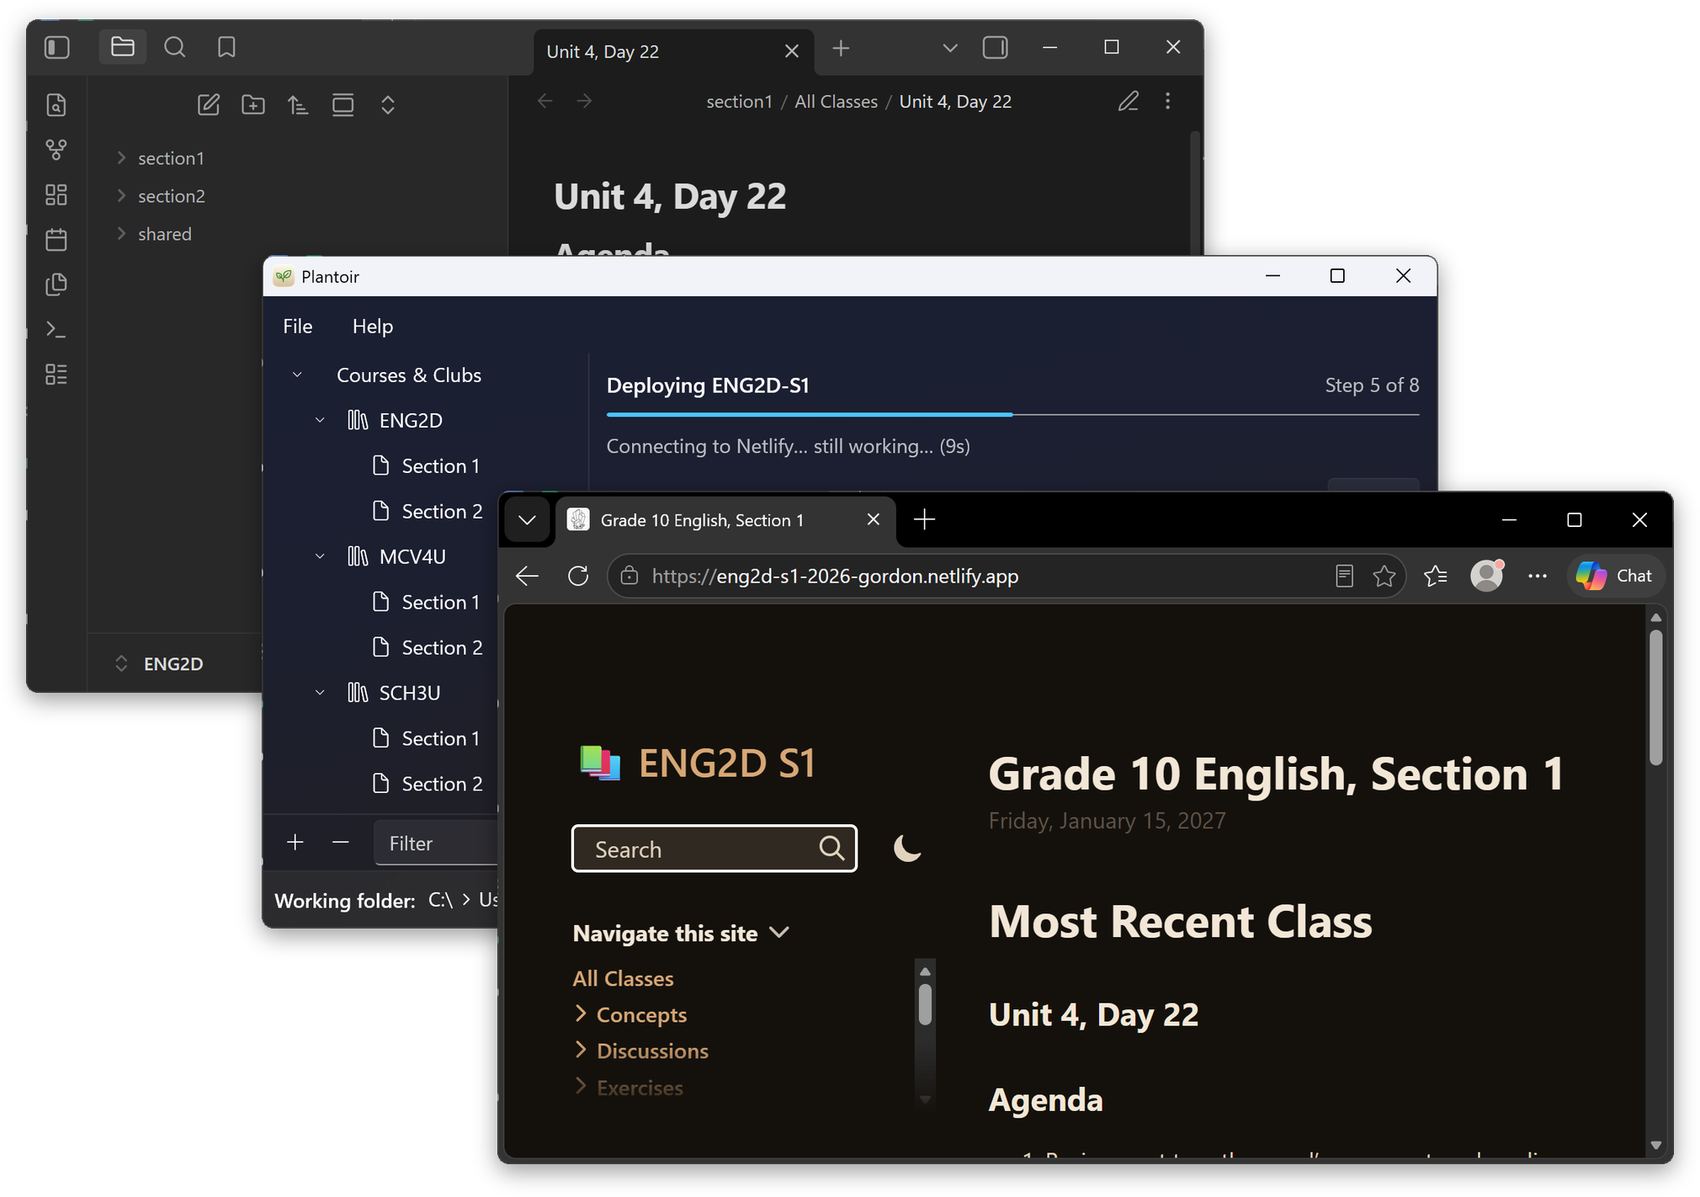
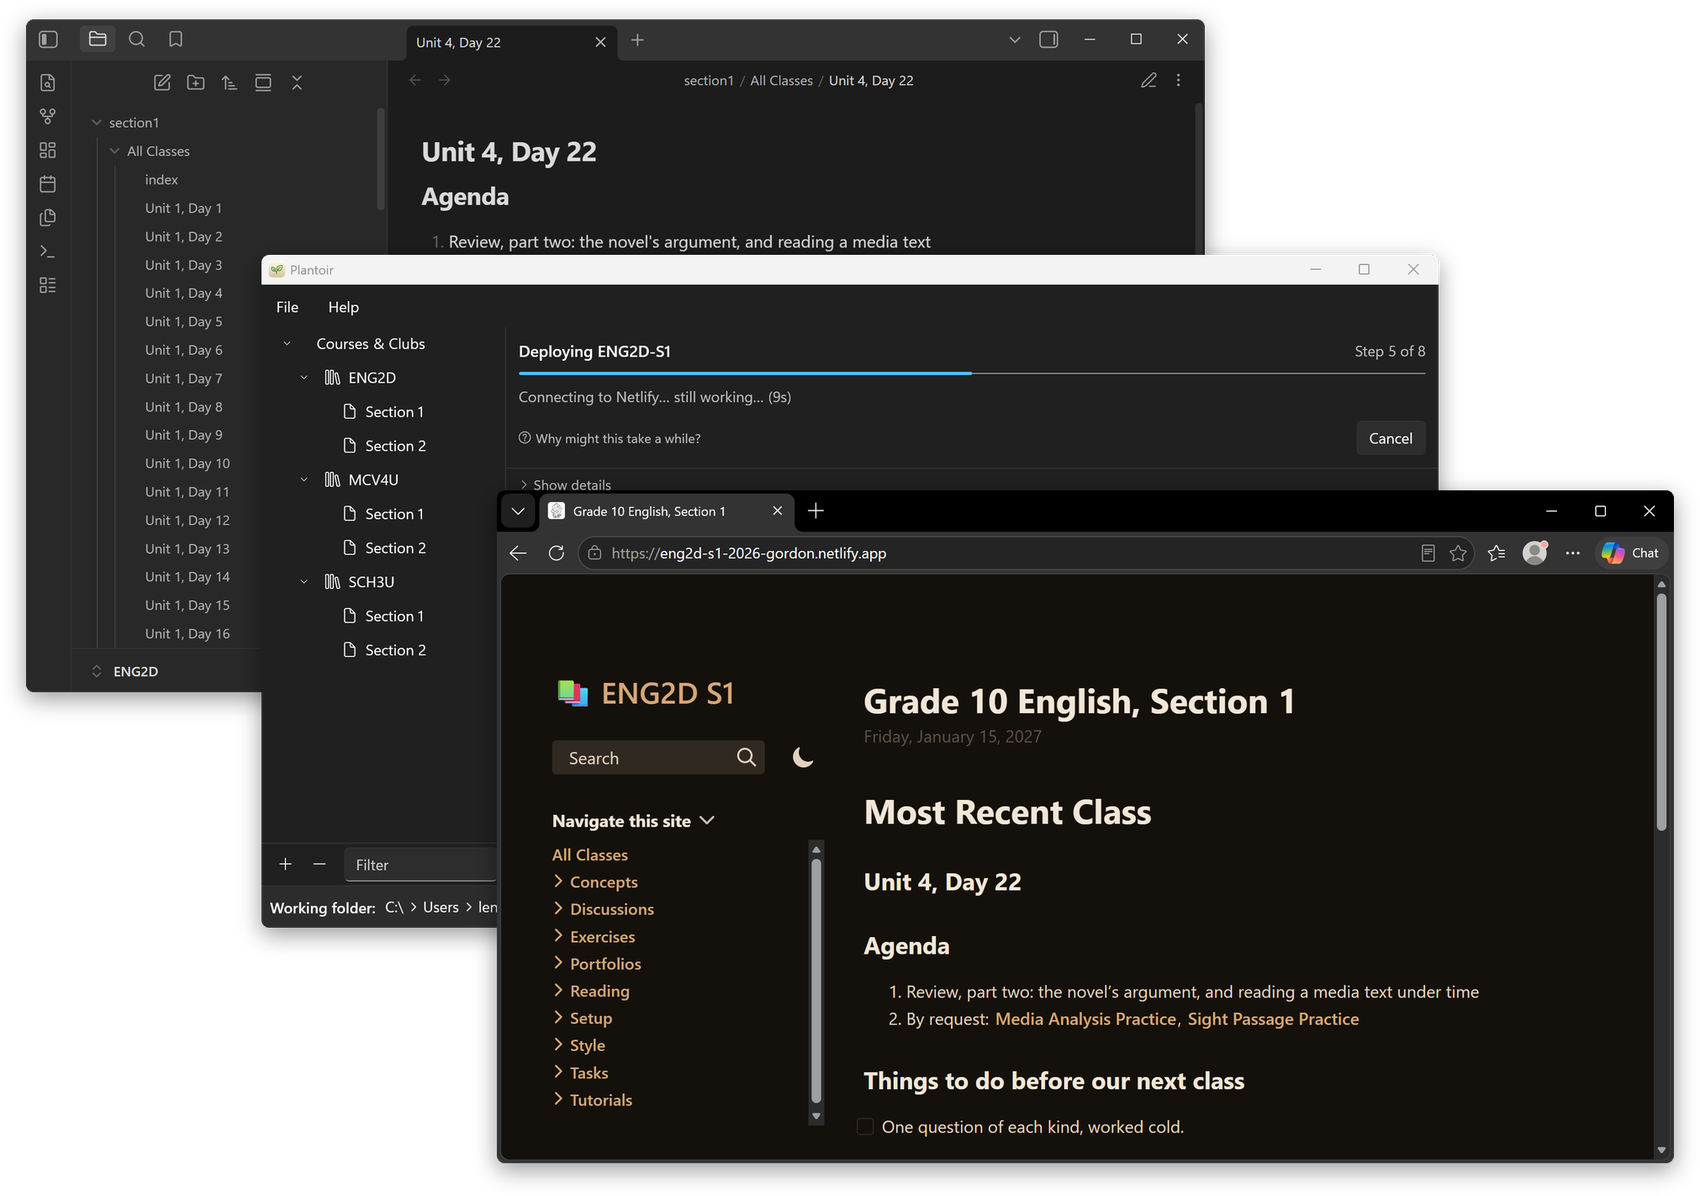
Fix Windows hero image: stray border pixels, tiny windows, and an empty Obsidian sidebar
Three separate bugs, found by comparing the Windows hero composite next to
the mac's side by side as asked, then re-shot:

1. Every card kept a 1 DIP hairline of Windows 11's own window border baked
   into the bitmap, because DWMWA_EXTENDED_FRAME_BOUNDS excludes the
   invisible resize border but not that accent border. Measured at exactly
   2 real pixels on this machine's 2x display, identical across Obsidian,
   Plantoir and Edge, in both themes. Cropped off before masking the corners.

2. card_geometry()'s 1680x960 cap was a REAL-PIXEL number tuned on a
   1920x1080-at-150% machine, where it read as almost the whole screen. The
   same number on a 200%-scaled display is only 840x480 DIPs -- a physically
   small window whose UI barely shows anything. Re-expressed the cap in DIPs
   and multiplied by scale_factor() at capture time, so a card occupies the
   same fraction of the desktop on any display.

3. The Obsidian card showed three collapsed top-level folders because
   nothing had ever told the file explorer to expand -- the mac's rich
   sidebar turns out to depend on nothing more portable than what Russell
   has manually browsed on that Mac over time, which a fresh Windows vault
   has never had a chance to accumulate. Fixed with Obsidian's own "Reveal
   current file in navigation" command, fired through the command palette
   once the window is placed -- verified to work with the autoReveal
[…]

diff --git a/website/shots/hero_windows.py b/website/shots/hero_windows.py
@@ -72,6 +72,26 @@ THEME_KEY = r"SOFTWARE\Microsoft\Windows\CurrentVersion\Themes\Personalize"
 # corners keep a crescent of desktop.
 CORNER_DIPS = 8
 
+# DWMWA_EXTENDED_FRAME_BOUNDS excludes the invisible resize border, but it
+# still includes the thin accent border Windows 11 draws directly on the
+# window -- so the raw grab keeps a hairline of that border colour on all
+# four edges. Measured on Obsidian, Plantoir and Edge alike, in both
+# appearances: exactly 1 DIP (2 real pixels at 2x scale). Crop it off before
+# masking, or it survives as stray dark pixels once composited onto the
+# page's own background.
+BORDER_DIPS = 1
+
+# A window sized in real pixels doesn't scale with the display: the original
+# 1680x960 cap was tuned on a 1920x1080-at-150% machine (a work area of
+# 1920x1008 real pixels, 1280x672 DIPs), where it read as "almost the whole
+# screen". The same real-pixel number on a 200%-scaled screen is only
+# 840x480 DIPs -- a physically small window whose UI barely shows anything.
+# Expressed in DIPs instead (the size that cap actually was, in points) and
+# multiplied by the display's own scale, a card occupies the same fraction
+# of the desktop everywhere.
+CARD_WIDTH_DIP = 1120
+CARD_HEIGHT_DIP = 640
+
 
 def announce(message: str) -> None:
     print(f"\n> {message}", flush=True)
@@ -189,6 +209,45 @@ def press_escape() -> None:
     time.sleep(0.8)
 
 
+def press_chord(*virtual_keys: int) -> None:
+    """Press several keys together, e.g. press_chord(VK_CONTROL, ord('P'))."""
+    KEYEVENTF_KEYUP = 0x0002
+    for vk in virtual_keys:
+        user32.keybd_event(vk, 0, 0, 0)
+    for vk in reversed(virtual_keys):
+        user32.keybd_event(vk, 0, KEYEVENTF_KEYUP, 0)
+
+
+def type_text(text: str) -> None:
+    KEYEVENTF_KEYUP = 0x0002
+    for character in text:
+        vk = user32.VkKeyScanW(ord(character)) & 0xFF
+        user32.keybd_event(vk, 0, 0, 0)
+        user32.keybd_event(vk, 0, KEYEVENTF_KEYUP, 0)
+        time.sleep(0.02)
+
+
+def reveal_active_file() -> None:
+    """Obsidian's own "Reveal current file in navigation" command.
+
+    Opening a note does not reliably scroll and expand the sidebar to show
+    it -- what actually happens depends on the "Reveal active file" setting,
+    which a fresh vault has never had a reason to turn on, and even turned
+    on it can settle mid-scroll rather than on the note itself. The command
+    does both deterministically, regardless of that setting, which is what
+    makes the sidebar worth photographing instead of three collapsed
+    top-level folders.
+    """
+    VK_CONTROL = 0x11
+    VK_RETURN = 0x0D
+    press_chord(VK_CONTROL, ord('P'))
+    time.sleep(0.6)
+    type_text("Reveal current file")
+    time.sleep(0.8)
+    press_chord(VK_RETURN)
+    time.sleep(1.2)
+
+
 def frame_bounds(hwnd: int) -> tuple[int, int, int, int]:
     """The VISIBLE frame. GetWindowRect includes an invisible resize border."""
     rect = wintypes.RECT()
@@ -230,7 +289,9 @@ def photograph(hwnd: int, destination: Path) -> Path:
     park_pointer()
     left, top, right, bottom = frame_bounds(hwnd)
     image = ImageGrab.grab(bbox=(left, top, right, bottom), all_screens=True)
-    radius = max(1, round(CORNER_DIPS * scale_factor()))
+    border = max(1, round(BORDER_DIPS * scale_factor()))
+    image = image.crop((border, border, image.width - border, image.height - border))
+    radius = max(1, round((CORNER_DIPS - BORDER_DIPS) * scale_factor()))
     destination.parent.mkdir(parents=True, exist_ok=True)
     rounded(image, radius).save(destination, format="PNG")
     print(f"   part {destination.name} ({image.width}x{image.height})")
@@ -322,14 +383,35 @@ def stop(process_name: str) -> None:
     time.sleep(1.0)
 
 
+def stop_matching(process_name: str, command_line_contains: str) -> None:
+    """Kill only the processes whose command line names our own scratch data.
+
+    `stop("msedge.exe")` kills every Edge process on the machine, scratch
+    profile or not -- on a machine where Edge is also someone's actual
+    browser, that closes whatever they had open with no warning. Edge forks
+    many helper processes per window, all named msedge.exe, so it is not
+    enough to find "the" pid either: every one of them is asked, and only
+    the ones launched against our own `--user-data-dir` answer.
+    """
+    query = (
+        "Get-CimInstance Win32_Process -Filter \"Name='" + process_name + "'\" "
+        "| Where-Object { $_.CommandLine -and $_.CommandLine.Contains('" + command_line_contains + "') } "
+        "| ForEach-Object { Stop-Process -Id $_.ProcessId -Force -ErrorAction SilentlyContinue }"
+    )
+    subprocess.run(["powershell", "-NoProfile", "-Command", query],
+                   capture_output=True, text=True)
+    time.sleep(1.0)
+
+
 # ---- The three cards -----------------------------------------------------
 
 
 def card_geometry() -> tuple[int, int, int, int]:
     """A window as big as the desktop can actually show, at 16:9-ish."""
     left, top, right, bottom = work_area()
-    width = min(1680, right - left - 40)
-    height = min(960, bottom - top - 40)
+    scale = scale_factor()
+    width = min(round(CARD_WIDTH_DIP * scale), right - left - 40)
+    height = min(round(CARD_HEIGHT_DIP * scale), bottom - top - 40)
     return left + 20, top + 20, width, height
 
 
@@ -368,7 +450,11 @@ def capture_obsidian(theme: str, x: int, y: int, w: int, h: int) -> Path:
     hwnd = wait_for_window(lambda: window_titled("Obsidian"), seconds=45)
     time.sleep(3.5)
     place(hwnd, x, y, w, h)
-    time.sleep(2.0)
+    time.sleep(1.5)
+    # Without this the sidebar is three collapsed top-level folders --
+    # correct, but not a picture of anything. Reveal walks the active file's
+    # ancestors open and scrolls to it, showing real class notes instead.
+    reveal_active_file()
     return photograph(hwnd, PARTS / f"obsidian-{theme}.png")
 
 
@@ -413,7 +499,7 @@ def capture_edge(theme: str, x: int, y: int, w: int, h: int) -> Path:
     press_escape()   # belt and braces: any promo bubble that opened anyway
     time.sleep(2.5)
     destination = photograph(hwnd, PARTS / f"edge-{theme}.png")
-    stop("msedge.exe")
+    stop_matching("msedge.exe", str(EDGE_PROFILE))
     return destination
 
 
@@ -442,7 +528,7 @@ def build(exe: Path, themes=("light", "dark")) -> None:
         write_theme(was_apps, was_system)
         restore_vaults(vaults_before)
         stop("Obsidian.exe")
-        stop("msedge.exe")
+        stop_matching("msedge.exe", str(EDGE_PROFILE))
         stop("Plantoir.exe")
         shutil.rmtree(EDGE_PROFILE, ignore_errors=True)
         print("   colour mode, vault list and scratch profile put back")

diff --git a/MAC-HANDOFF.md b/MAC-HANDOFF.md
@@ -483,6 +483,109 @@ rather than being deleted.
 
 ## For awareness — no mac code needed
 
+- **The Windows hero pair had three separate bugs, found by actually looking
+  at it next to the mac's** (Windows, 2026-08-21, commit "Fix Windows hero
+  image: stray border pixels, tiny windows, and an empty Obsidian sidebar").
+  Russell asked directly: "compare the macOS hero image to the Windows hero
+  image captures and you will see what I mean" — and looking, rather than
+  reasoning about the code, is how all three were actually found and fixed.
+  - **A hairline of the window's own border was baked into every card.**
+    `DWMWA_EXTENDED_FRAME_BOUNDS` (used because `GetWindowRect` includes an
+    invisible resize border — already known, see the entry below) excludes
+    that invisible border but NOT the thin accent border Windows 11 draws
+    directly on the window, so the raw grab kept 1 DIP of that border colour
+    on all four edges. It reads as near-black (52-54, 52-54, 52-54) in BOTH
+    appearances, since it is the system border colour, not the app's — so it
+    shows as stray dark pixels once composited onto the page's own
+    background, worst on the light cards. Measured identically on all three
+    window kinds (Obsidian, Plantoir, Edge) in both themes: exactly 2 real
+    pixels at this machine's 2x scale, i.e. 1 DIP. Fixed by cropping that
+    border off before masking the corners, and shrinking the corner-radius
+    mask to match (`BORDER_DIPS`, `photograph()` in `hero_windows.py`). If
+    the mac's own captures ever show a comparable hairline, this is the shape
+    of bug to look for — but `screencapture -l` returning a window with its
+    corners already transparent (rule 1 in the marketing-screenshots skill)
+    means the mac has never had a border baked into the bitmap to begin with.
+  - **The card size was a REAL-PIXEL cap, so it didn't scale with the
+    display.** `card_geometry()`'s 1680x960 cap was tuned on a
+    1920x1080-at-150% machine, where it read as "almost the whole screen"
+    (1120x672 DIPs out of a 1280x672 DIP work area). The same 1680x960 REAL
+    pixels on a 200%-scaled screen is only 840x480 DIPs — a physically small
+    window whose UI barely shows anything, which is exactly what "you can
+    barely see anything in each window" was describing. Re-expressed the cap
+    in DIPs (`CARD_WIDTH_DIP = 1120`, `CARD_HEIGHT_DIP = 640` — the size the
+    old cap actually was, in points, on the machine it was tuned on) and
+    multiplied by `scale_factor()` at capture time, so a card occupies the
+    same fraction of the desktop on any display. Cards went from 1680x960 to
+    2240x1280 real pixels on this (200%-scaled) machine; nothing changes on a
+    100%-scaled one.
+  - **Obsidian's sidebar was three collapsed folder names, because nothing
+    ever told it to be anything else.** The mac's rich sidebar (several
+    folders open, real class notes visible) turned out to depend on nothing
+    reproducible — no fold state is stored anywhere in a vault's
+    `.obsidian/` (checked `workspace.json` by hand; there is no
+    `expandedFolders` key or equivalent), so it can only be Electron's own
+    per-machine local storage remembering what Russell has manually browsed
+    on that Mac over time. That is not something a fresh Windows vault has
+    ever had a reason to accumulate, and setting the file-explorer leaf's
+    `autoReveal: true` in `workspace.json` before launch was NOT sufficient
+    on its own — it visibly expanded the active note's ancestors but settled
+    mid-scroll, short of the note itself, and repeated waits up to 6s did not
+    change where it stopped. What worked, tested with `autoReveal` explicitly
+    OFF to confirm it does not depend on that setting at all: Obsidian's own
+    **"Reveal current file in navigation" command**, fired through the
+    command palette (`Ctrl+P`, type the name, Enter) once the window is
+    placed at its final size. It deterministically expands every ancestor
+    folder AND scrolls to the note, highlighted, regardless of any persisted
+    per-vault state — which is also why it is the right fix rather than the
+    `autoReveal` setting: it does not depend on Electron local storage that a
+    fresh machine will never have. New helper `reveal_active_file()` in
+    `hero_windows.py`, called from `capture_obsidian()`. **Worth knowing if
+    the mac's demo vault is ever reprovisioned from scratch** (a new machine,
+    or `~/Desktop/Teaching` deleted and rebuilt): the mac's own rich sidebar
+    would come back collapsed too, for the identical reason, and the same
+    command would be the fix there — nothing about it is Windows-specific,
+    it just happened to be found here because Windows had no accumulated
+    local-storage state to be masking the bug.
+  - **A pre-existing risk, found while testing this and fixed alongside it**:
+    `capture_edge()`'s `stop("msedge.exe")` (`taskkill /F /IM msedge.exe`)
+    kills every Edge process on the machine, scratch profile or not. On a
+    machine where Edge is also someone's real browser — which it was, on
+    this one, mid-session — that silently closes whatever they had open.
+    New `stop_matching(process_name, command_line_contains)` uses
+    `Get-CimInstance Win32_Process` to filter by command line before
+    killing, so only the process launched against our own
+    `--user-data-dir=EDGE_PROFILE` is touched; verified live with a
+    non-matching filter first (confirmed zero processes selected) before
+    trusting it against the real one. **Not extended to `Obsidian.exe` or
+    `Plantoir.exe`** in this pass — Plantoir is explicitly pre-authorised to
+    be force-closed on Windows regardless (`CLAUDE.md`, "An agent working on
+    Windows may close a running Plantoir without asking"), and no real
+    Obsidian was running to be at risk here. If the mac's own Safari capture
+    ever needs an equivalent, it already has one structurally: the `⎚`
+    profile keeps scratch state separate from Russell's own Safari, so a
+    `killall Safari` (if it has one) is not the same class of risk to begin
+    with.
+  - **Left unresolved, and NOT chased further**: the Plantoir card's native
+    title bar came back light in a dark-appearance capture, 4 runs out of 4
+    in this session, including with an extra 3s settle after `write_theme()`
+    before launch (ruling out a simple registry-propagation race).
+    `ShowHeroWindowAsync` (`MarketingShotCapturer.cs`) sets `RequestedTheme`
+    on the content root and the progress view, which is why the MENU BAR and
+    everything below it renders correctly dark — but nothing there touches
+    the native caption's dark-mode attribute, which is presumably meant to
+    follow the OS registry `write_theme()` already sets before launch. Why
+    that isn't landing is unknown: possibly a genuine gap (no explicit
+    `DwmSetWindowAttribute(..., DWMWA_USE_IMMERSIVE_DARK_MODE, ...)` call
+    anywhere in this codepath), possibly specific to capturing over RDP,
+    where this session ran. `site/img/hero-windows-dark.png` ships with this
+    flaw rather than being blocked on it — the three bugs above are the ones
+    Russell asked about and are confirmed fixed; the title bar is a smaller,
+    separate defect for a future session to chase, on a physical console
+    rather than RDP if possible, to rule that variable out first.
+  - Reference: `website/shots/hero_windows.py` (`photograph`, `card_geometry`,
+    `reveal_active_file`, `stop_matching`).
+
 - **Windows marketing shots re-taken, a Windows hero pair added, and an
   already-known theming bug re-fixed the right way** (Windows, 2026-08-20).
   - **What changed**: Russell redeployed the demo sites and initially asked
